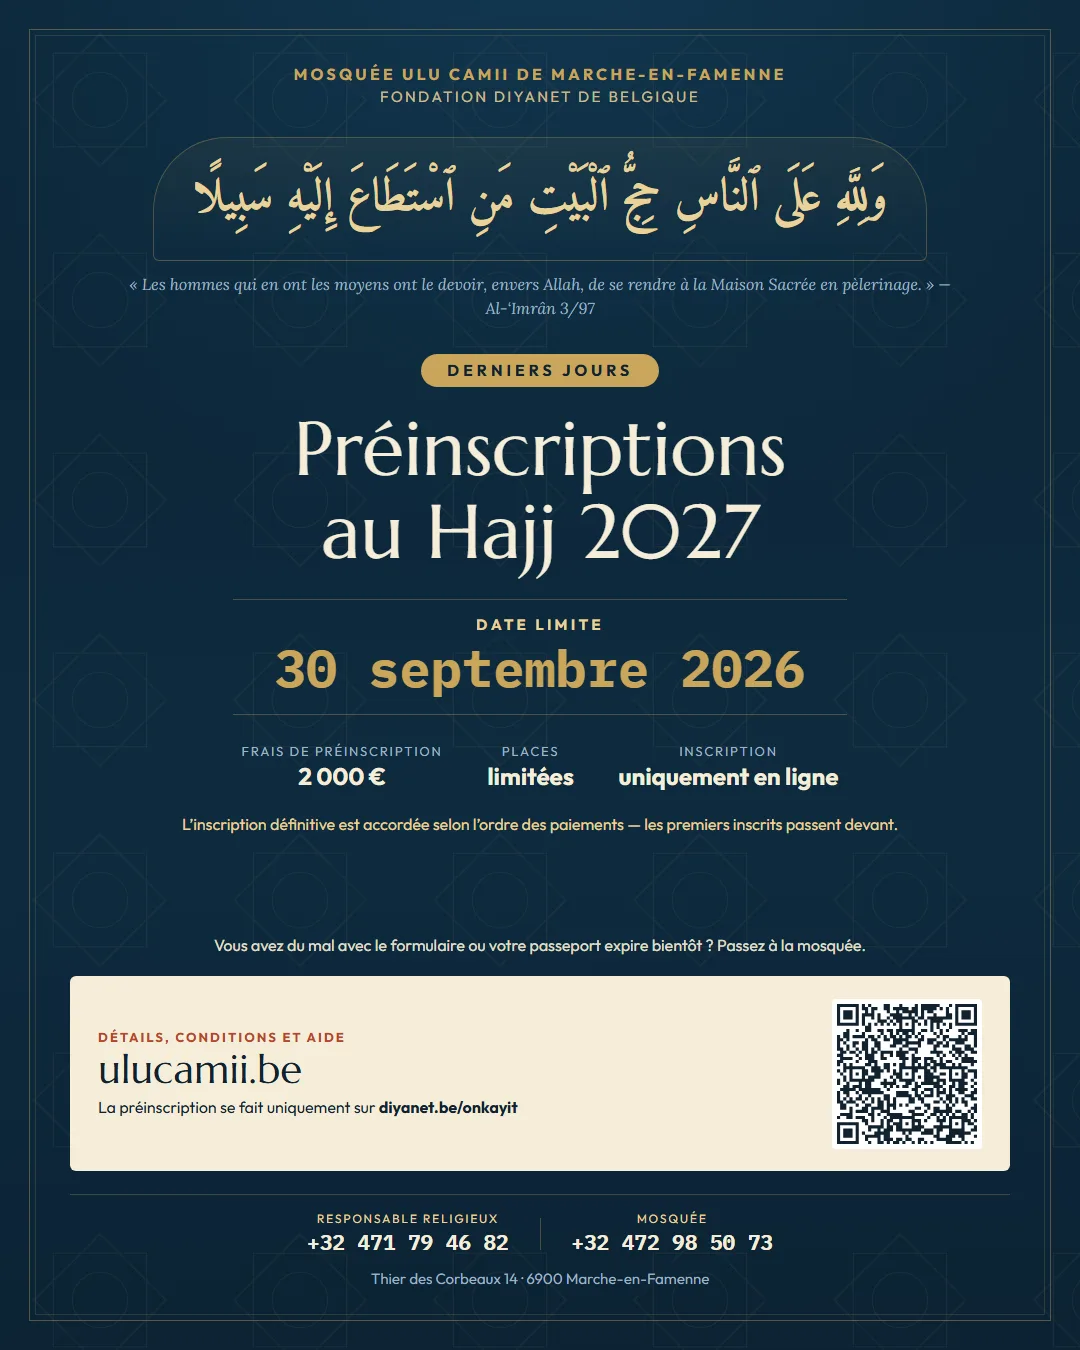
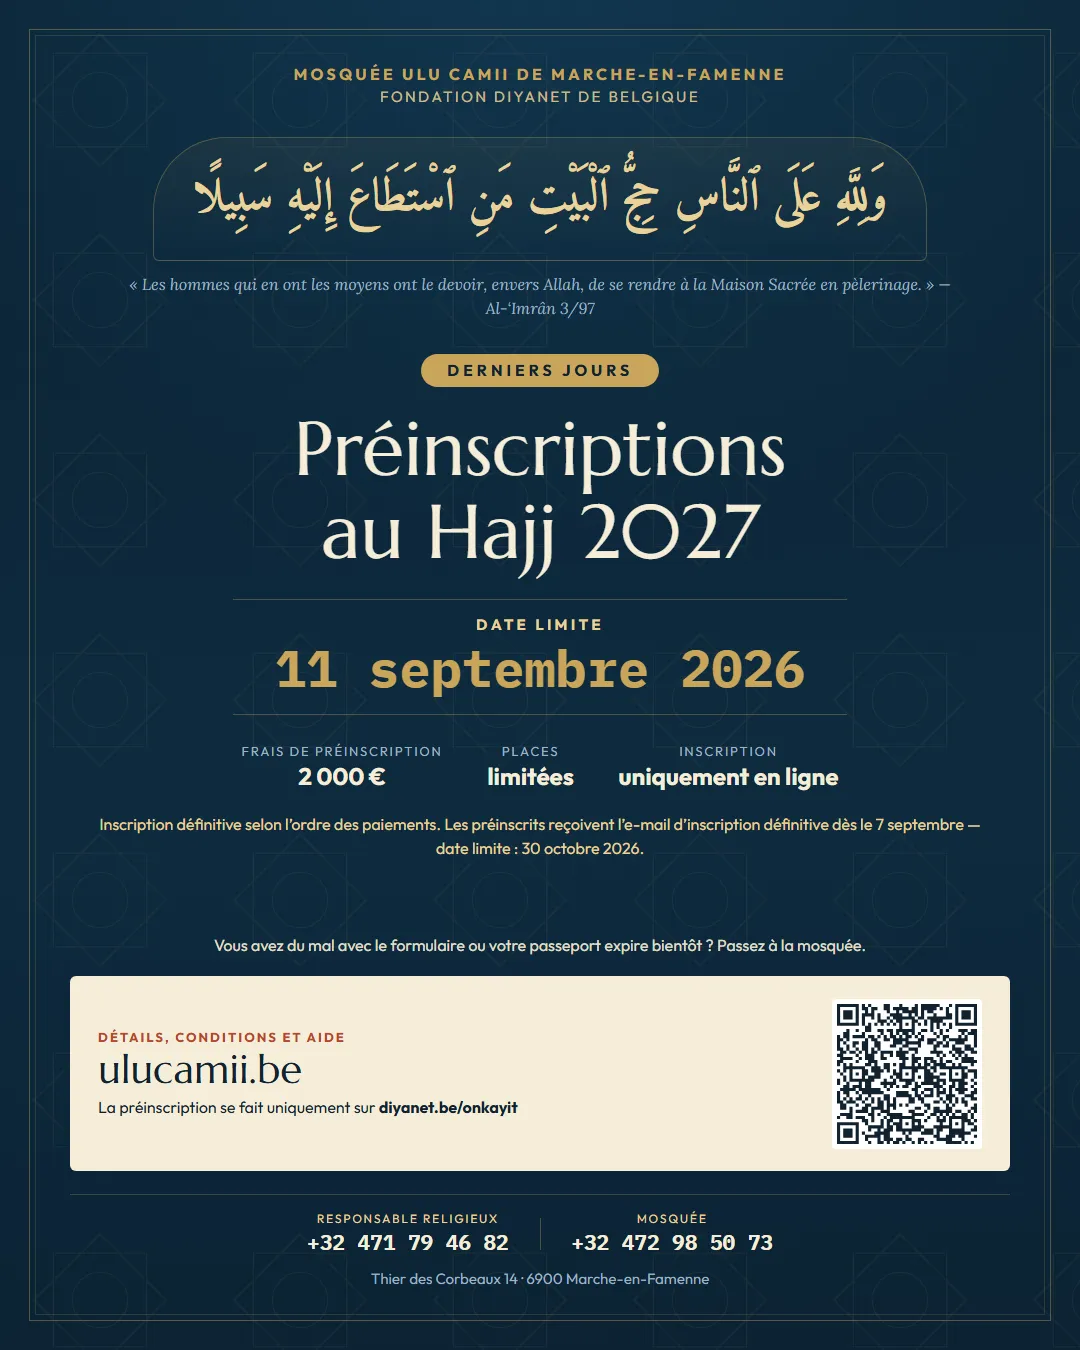
Hac 2027 güncellemesi (Müşavirlik yazısı, 4 Eyl): ön kayıt son günü 11 Eylül, kesin kayıt e-postaları 7 Eylül'den itibaren, kesin kayıt son günü 30 Ekim — bant, Diyanet Hizmetleri kartı (üç evre), TR/FR duyuru, afişler yeniden üretildi; hero şeridine süreli mesaj (baslangic/son) desteği + CMS alanla
Claude-Session: https://claude.ai/code/session_01W9FbGji6CtGB52WSP8uxnU

Changed region(s): [[0.0917, 0.5911, 0.8861, 0.6533], [0.2444, 0.4667, 0.3056, 0.5289]]

diff --git a/src/content.config.ts b/src/content.config.ts
@@ -72,7 +72,7 @@ const ayarlar = defineCollection({
     cumaSaati: z.string().optional(),
     kursKayitLinki: z.string().url().optional(),
     servisler: z.object({ basvuru: z.string().default('') }).default({ basvuru: '' }),
-    heroMesajlar: z.array(z.object({ metin: z.object({ tr: z.string(), fr: z.string(), en: z.string().optional() }), sayfa: z.string().optional(), baglanti: z.string().optional() })).default([]),
+    heroMesajlar: z.array(z.object({ metin: z.object({ tr: z.string(), fr: z.string(), en: z.string().optional() }), sayfa: z.string().optional(), baglanti: z.string().optional(), baslangic: z.coerce.date().optional(), son: z.coerce.date().optional() })).default([]),
     imsakiyePdf: z.string().url().optional(),
     sosyal: z.object({ facebook: z.string().url().optional(), instagram: z.string().url().optional(), youtube: z.string().url().optional() }).default({}),
     konsolosluk: z.object({

diff --git a/src/lib/etkinlik-tarihleri.ts b/src/lib/etkinlik-tarihleri.ts
@@ -1,6 +1,10 @@
 /** Süreli duyuru tarihleri — tek kaynak. HacBandi.astro ve DiyanetHizmetleri.astro buradan
  * import eder; iki dosyada ayrı ayrı kopyalanmaz, senkron kaybı riski ortadan kalkar. */
-export const HAC_SON_GUN = new Date('2026-09-30T23:59:59+02:00');
+/** Ön kayıt son günü — Müşavirliğin 4 Eylül 2026 yazısı: «2027 Hac ön kayıtları 11.09.2026 tarihine
+ * kadar devam etmektedir». Vakfın ön kayıt sayfası aynı gün hâlâ 30.09.2026 yazıyordu; Müşavirlik takvimi esastır. */
+export const HAC_SON_GUN = new Date('2026-09-11T23:59:59+02:00');
+/** Kesin kayıt son günü — aynı yazı: 30.10.2026'ya uzatıldı; kesin kayıt e-postaları 07.09.2026'dan itibaren. */
+export const HAC_KESIN_SON_GUN = new Date('2026-10-30T23:59:59+01:00');
 export const HAC_DUYURU_SLUG = '2027-hac-on-kayit-son-gunler';
 
 export const UMRE_SON_GUN = new Date('2026-11-20T23:59:59+01:00');

diff --git a/src/content/duyurular/fr/2027-hac-on-kayit-son-gunler.md b/src/content/duyurular/fr/2027-hac-on-kayit-son-gunler.md
@@ -1,19 +1,21 @@
 ---
-baslik: "Préinscriptions au Hajj 2027 : prolongées jusqu'au 30 septembre"
-tarih: 2026-08-30
-ozet: "La Fondation Diyanet de Belgique a prolongé les préinscriptions au hajj 2027 jusqu'au 30 septembre 2026. Frais : 2 000 € par personne ; les places sont limitées et l'inscription définitive est accordée selon l'ordre des paiements. Inscription sur diyanet.be/onkayit ; notre mosquée peut vous aider."
+baslik: "Hajj 2027 : préinscription jusqu'au 11 septembre, inscription définitive jusqu'au 30 octobre"
+tarih: 2026-09-04
+ozet: "Préinscription jusqu'au 11 septembre 2026 ; e-mail d'inscription définitive aux préinscrits dès le 7 septembre, date limite : 30 octobre 2026. Frais : 2 000 € par personne ; places limitées, selon l'ordre des paiements. Inscription sur diyanet.be/onkayit ; notre mosquée peut vous aider."
 kapak: /media/duyurular/2027-hac-onkayit-afis.webp
-kapakAlt: Affiche de la Fondation Diyanet de Belgique pour la préinscription au hajj 2027 — du 20 juin au 30 août 2026 (délai prolongé ensuite jusqu'au 30 septembre), 2 000 € par personne
+kapakAlt: "Affiche de la Fondation Diyanet de Belgique pour la préinscription au hajj 2027 — du 20 juin au 30 août 2026 (date limite actuelle : 11 septembre 2026), 2 000 € par personne"
 etiketler:
   - hajj
   - diyanet
 oneCikan: true
-oneCikanSon: 2026-09-30
+oneCikanSon: 2026-10-30
 ---
 
-<div class="uyari"><p><strong>Délai prolongé — date limite : mercredi 30 septembre 2026.</strong> Les places sont limitées et le droit à l'inscription définitive est accordé selon l'ordre des paiements de préinscription — les premiers inscrits passent devant.</p></div>
+<div class="uyari"><p><strong>Préinscription : date limite le vendredi 11 septembre 2026.</strong> Les places sont limitées et le droit à l'inscription définitive est accordé selon l'ordre des paiements de préinscription — les premiers inscrits passent devant.</p><p><strong>Déjà préinscrit ?</strong> Les e-mails d'inscription définitive sont envoyés à partir du lundi 7 septembre ; consultez régulièrement votre messagerie. Date limite de l'inscription définitive : <strong>30 octobre 2026</strong>.</p></div>
 
-La Fondation Diyanet de Belgique **a prolongé les préinscriptions au hajj 2027 jusqu'au mercredi 30 septembre 2026** (la date limite initiale était le 30 août). Les autorités saoudiennes ayant avancé le traitement des visas, la préinscription comme l'inscription définitive ont été lancées plus tôt que d'habitude cette année.
+Selon la note du Conseiller du 4 septembre 2026, **les préinscriptions au hajj 2027 se poursuivent jusqu'au vendredi 11 septembre 2026.** Les personnes qui souhaitent profiter des places limitées doivent se préinscrire sans tarder et obtenir à temps leur passeport turc. Les autorités saoudiennes ayant avancé le traitement des visas, la préinscription comme l'inscription définitive se déroulent plus tôt que d'habitude cette année.
+
+**Les candidats qui ont payé les frais de préinscription et complété la démarche en ligne recevront, à partir du lundi 7 septembre 2026, un e-mail pour l'inscription définitive.** Consultez régulièrement votre messagerie (courriers indésirables compris) et complétez les démarches à temps. La date limite de l'inscription définitive a été reportée au **30 octobre 2026**.
 
 Les inscriptions se font **uniquement en ligne**. Le futur pèlerin peut les effectuer lui-même ou se faire aider par les responsables de notre mosquée.
 
@@ -21,8 +23,8 @@ Les inscriptions se font **uniquement en ligne**. Le futur pèlerin peut les eff
 
 | Étape | Date |
 |---|---|
-| Préinscription | 20 juin – **30 septembre 2026** (prolongée) |
-| Inscription définitive | Communiquée par e-mail aux préinscrits par la Fondation (calendrier initial : 30 août – 30 septembre 2026) |
+| Préinscription | 20 juin – **11 septembre 2026** |
+| Inscription définitive | Invitation par e-mail à partir du 7 septembre — date limite **30 octobre 2026** (reportée) |
 | Voyage du hajj | 1-3 mai **ou** 24-27 mai 2027 |
 
 Les dates du hajj peuvent varier de 1 à 3 jours selon les vols et les hôtels.
@@ -76,4 +78,4 @@ Si le formulaire vous pose difficulté, si vous avez un doute sur vos documents 
 
 Que Dieu facilite le chemin de ceux qui en font l'intention et leur accorde un pèlerinage agréé.
 
-<p class="cetvel" style="margin-top:2.5rem;padding-top:1rem;font-size:0.85rem;line-height:1.8;color:var(--metin-2)">Mise à jour (30 août 2026) : la Fondation Diyanet de Belgique a prolongé les préinscriptions jusqu'au 30 septembre 2026. Vérification (3 septembre 2026) : le délai a été reconfirmé sur la page de préinscription de la Fondation — « 2027 Hac Ön kayıtları 20.06.2026 – 30.09.2026 tarihleri arasında gerçekleşecektir. » Lors du même contrôle, la date de validité exigée pour la carte de séjour belge a été corrigée en 10.07.2027, conformément au texte de la Fondation (notre page indiquait par erreur 10.07.2028). Source : Fondation Diyanet de Belgique — <a style="padding-block:.55rem" href="https://www.diyanet.be/onkayit" target="_blank" rel="noopener">diyanet.be/onkayit</a>. L'affiche appartient à la Fondation Diyanet de Belgique.</p>
+<p class="cetvel" style="margin-top:2.5rem;padding-top:1rem;font-size:0.85rem;line-height:1.8;color:var(--metin-2)">Mise à jour (4 septembre 2026) : la note du Conseiller fixe la date limite de préinscription au 11 septembre 2026, l'envoi des e-mails d'inscription définitive à partir du 7 septembre et la date limite de l'inscription définitive au 30 octobre 2026 ; la page de préinscription de la Fondation indiquait encore 30.09.2026 le même jour, le calendrier du Conseiller a été retenu. Mise à jour précédente (30 août 2026) : la Fondation Diyanet de Belgique avait prolongé les préinscriptions jusqu'au 30 septembre 2026. Vérification (3 septembre 2026) : le délai a été reconfirmé sur la page de préinscription de la Fondation — « 2027 Hac Ön kayıtları 20.06.2026 – 30.09.2026 tarihleri arasında gerçekleşecektir. » Lors du même contrôle, la date de validité exigée pour la carte de séjour belge a été corrigée en 10.07.2027, conformément au texte de la Fondation (notre page indiquait par erreur 10.07.2028). Source : Fondation Diyanet de Belgique — <a style="padding-block:.55rem" href="https://www.diyanet.be/onkayit" target="_blank" rel="noopener">diyanet.be/onkayit</a>. L'affiche appartient à la Fondation Diyanet de Belgique.</p>

diff --git a/src/content/duyurular/tr/2027-hac-on-kayit-son-gunler.md b/src/content/duyurular/tr/2027-hac-on-kayit-son-gunler.md
@@ -1,19 +1,21 @@
 ---
-baslik: "2027 Hac Ön Kayıtları 30 Eylül’e Uzatıldı"
-tarih: 2026-08-30
-ozet: "Belçika Diyanet Vakfı 2027 hac ön kayıt süresini 30 Eylül 2026’ya uzattı. Ön kayıt ücreti kişi başı 2.000 €; kontenjan sınırlı ve kesin kayıt hakkı ödeme sırasına göre veriliyor. Başvuru diyanet.be/onkayit adresinden yapılır; camimizden yardım alabilirsiniz."
+baslik: "2027 Hac: Ön Kayıt İçin Son Gün 11 Eylül, Kesin Kayıt 30 Ekim’e Kadar"
+tarih: 2026-09-04
+ozet: "Ön kayıt için son gün 11 Eylül 2026; ön kayıt yapanlara 7 Eylül’den itibaren kesin kayıt e-postası geliyor, kesin kayıt son günü 30 Ekim 2026. Ücret kişi başı 2.000 €; kontenjan sınırlı, kesin kayıt hakkı ödeme sırasına göre. Başvuru diyanet.be/onkayit; camimizden yardım alabilirsiniz."
 kapak: /media/duyurular/2027-hac-onkayit-afis.webp
-kapakAlt: Belçika Diyanet Vakfı’nın 2027 hac ön kayıt afişi — ön kayıt 20 Haziran – 30 Ağustos 2026 (süre sonradan 30 Eylül’e uzatıldı), ücret kişi başı 2.000 €
+kapakAlt: Belçika Diyanet Vakfı’nın 2027 hac ön kayıt afişi — ön kayıt 20 Haziran – 30 Ağustos 2026 (güncel son gün 11 Eylül 2026), ücret kişi başı 2.000 €
 etiketler:
   - hac
   - diyanet
 oneCikan: true
-oneCikanSon: 2026-09-30
+oneCikanSon: 2026-10-30
 ---
 
-<div class="uyari"><p><strong>Süre uzatıldı — son başvuru: 30 Eylül 2026 Çarşamba.</strong> Kontenjan sınırlıdır ve kesin kayıt hakkı, ön kayıt ödemesinin sırasına göre verilmektedir — erken başvuran öne geçer.</p></div>
+<div class="uyari"><p><strong>Ön kayıt için son gün: 11 Eylül 2026 Cuma.</strong> Kontenjan sınırlıdır ve kesin kayıt hakkı, ön kayıt ödemesinin sırasına göre verilmektedir — erken başvuran öne geçer.</p><p><strong>Ön kayıt yapanlar:</strong> kesin kayıt e-postaları 7 Eylül Pazartesi’den itibaren gönderiliyor; e-postanızı düzenli kontrol edin. Kesin kayıt için son gün <strong>30 Ekim 2026</strong>.</p></div>
 
-Belçika Diyanet Vakfı, **2027 yılı hac ön kayıt süresini 30 Eylül 2026 Çarşamba gününe kadar uzattı** (ilk duyurudaki son gün 30 Ağustos’tu). Suudi Arabistan makamlarının vize işlemlerini erken tarihe çekmesi sebebiyle bu yıl hem ön kayıt hem kesin kayıt süreci normalden erken başlatıldı.
+Müşavirliğin 4 Eylül 2026 tarihli yazısına göre **2027 yılı hac ön kayıtları 11 Eylül 2026 Cuma gününe kadar devam ediyor.** Sınırlı kontenjandan yararlanmak isteyenlerin gecikmeden ön kayıt yaptırması ve zamanında T.C. pasaportu çıkarması gerekiyor. Suudi Arabistan makamlarının vize işlemlerini erken tarihe çekmesi sebebiyle bu yıl hem ön kayıt hem kesin kayıt süreci normalden erken yürütülüyor.
+
+**Ön kayıt ücretini yatırıp çevrimiçi işlemini tamamlayan hacı adaylarına 7 Eylül 2026 Pazartesi’den itibaren kesin kayıt için e-posta gönderilecek.** E-postanızı (istenmeyen klasörü dâhil) düzenli olarak kontrol edin ve işlemlerinizi zamanında tamamlayın. Kesin kayıt için son başvuru tarihi uzatılarak **30 Ekim 2026** olarak güncellendi.
 
 Kayıtlar **yalnızca çevrimiçi** olarak alınıyor. İşlemi hacı adayı kendisi yapabileceği gibi, camimizdeki görevlilerden yardım alarak da tamamlayabilir.
 
@@ -21,8 +23,8 @@ Kayıtlar **yalnızca çevrimiçi** olarak alınıyor. İşlemi hacı adayı ken
 
 | Aşama | Tarih |
 |---|---|
-| Ön kayıt | 20 Haziran – **30 Eylül 2026** (uzatıldı) |
-| Kesin kayıt | Ön kayıt yapanlara Belçika Diyanet Vakfı e-posta ile bildirir (ilk duyurudaki takvim: 30 Ağustos – 30 Eylül 2026) |
+| Ön kayıt | 20 Haziran – **11 Eylül 2026** |
+| Kesin kayıt | 7 Eylül’den itibaren e-posta ile davet — son gün **30 Ekim 2026** (uzatıldı) |
 | Hac yolculuğu | 1-3 Mayıs **veya** 24-27 Mayıs 2027 |
 
 Hac tarihleri otel ve uçak planlamasına göre 1-3 gün değişebilir.
@@ -76,4 +78,4 @@ Formu doldurmakta zorlanırsanız, belgeleriniz konusunda emin değilseniz ya da
 
 Rabbimiz, niyet edenlerin yolunu açık, kabul edilmiş bir hac nasip eylesin.
 
-<p class="cetvel" style="margin-top:2.5rem;padding-top:1rem;font-size:0.85rem;line-height:1.8;color:var(--metin-2)">Güncelleme (30 Ağustos 2026): Belçika Diyanet Vakfı ön kayıt süresini 30 Eylül 2026’ya uzattı. Doğrulama (3 Eylül 2026): süre Vakfın ön kayıt sayfasından yeniden teyit edildi — “2027 Hac Ön kayıtları 20.06.2026 – 30.09.2026 tarihleri arasında gerçekleşecektir.” Aynı denetimde, kesin kayıtta istenen Belçika oturum kartının geçerlilik tarihi Vakfın metnindeki gibi 10.07.2027 olarak düzeltildi (sayfamızda sehven 10.07.2028 yazıyordu). Kaynak: Belçika Diyanet Vakfı — <a style="padding-block:.55rem" href="https://www.diyanet.be/onkayit" target="_blank" rel="noopener">diyanet.be/onkayit</a>. Afiş Belçika Diyanet Vakfı’na aittir.</p>
+<p class="cetvel" style="margin-top:2.5rem;padding-top:1rem;font-size:0.85rem;line-height:1.8;color:var(--metin-2)">Güncelleme (4 Eylül 2026): Müşavirliğin yazısıyla ön kayıt son günü 11 Eylül 2026, kesin kayıt e-postaları 7 Eylül’den itibaren, kesin kayıt son günü 30 Ekim 2026 olarak bildirildi; Vakfın ön kayıt sayfası aynı gün hâlâ 30.09.2026 yazıyordu, Müşavirlik takvimi esas alındı. Önceki güncelleme (30 Ağustos 2026): Belçika Diyanet Vakfı ön kayıt süresini 30 Eylül 2026’ya uzatmıştı. Doğrulama (3 Eylül 2026): süre Vakfın ön kayıt sayfasından yeniden teyit edildi — “2027 Hac Ön kayıtları 20.06.2026 – 30.09.2026 tarihleri arasında gerçekleşecektir.” Aynı denetimde, kesin kayıtta istenen Belçika oturum kartının geçerlilik tarihi Vakfın metnindeki gibi 10.07.2027 olarak düzeltildi (sayfamızda sehven 10.07.2028 yazıyordu). Kaynak: Belçika Diyanet Vakfı — <a style="padding-block:.55rem" href="https://www.diyanet.be/onkayit" target="_blank" rel="noopener">diyanet.be/onkayit</a>. Afiş Belçika Diyanet Vakfı’na aittir.</p>
